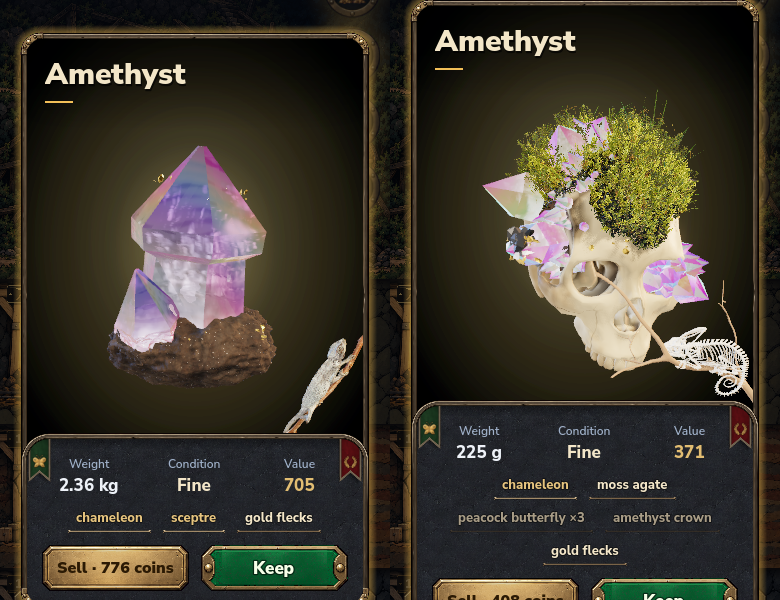
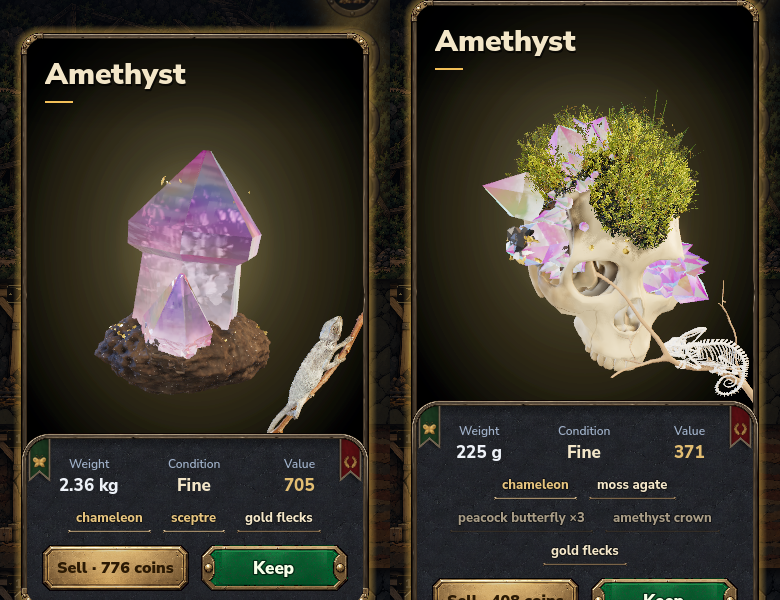
Хамелеон: обычный на 20% крупнее

Changed region(s): [[0.1231, 0.24, 0.4615, 0.72]]

diff --git a/CLAUDE.md b/CLAUDE.md
@@ -71,7 +71,7 @@
 - Руда и железо рудника — на разных цветах фишек (`AREAS[].ore.iron` ≠ `local`): иначе железа нет вовсе (Proval до 20.11).
 
 ## Что дальше
-- 25.11 (`fixes`), **хамелеон в углу карточки — первая проба, без цвета** (легенда «chameleon»; задумка пользователя: хамелеон на палочке в правом нижнем углу окна камня, затем синхронная смена цвета хамелеона, камня, инфо-блока и рамки). Сканы Sketchfab (CC BY, `assets/specimen/chameleon/CREDITS.md`): живой хамелеон RISD Nature Lab на ветке (ветка отделена по цвету текстуры — коричневая против серого тела) и скелет йеменского хамелеона yoniren2 со своей веткой (подставка выброшена); `prototype/tools/chameleon/cham_prep.py -- <Downloads> <godot/assets/specimen/chameleon>` → `cham_body/cham_branch/cham_skel/cham_skel_branch.obj`, `cham_d.png` (1024). `CardChameleon` (`specimen/card_chameleon.gd`, вешает `Reveal` по `fx == "chameleon"`): модель в мире студии камня (её свет), каждый кадр ставится в правый нижний угол окна (правый край вида, верх инфо-панели; `cam.project_position`), ветка лежит наискосок через угол (по эскизу пользователя): нижний конец на верху инфо-панели в 0,24 ширины окна от правого края, верхний — на правой раме в 0,34 ширины над панелью (`CHORD`), концы чуть уходят за край (`LEN_K` 1,18), животное головой вверх, боком к камере; скелет — как в первой пробе (по просьбе): ветка из угла вверх-влево, 0,78 ширины окна (`SKEL_LEN`), середина скелета чуть выше угла. На черепе — скелет (хамелеон добавлен в легенды черепов людей и зверей). Ключ `cham_flip` — ветка другим концом. Кадр — `art/chameleon_corner_try.png`. Не сделано: раскраска и смена цвета, анимация.
+- 25.11 (`fixes`), **хамелеон в углу карточки — первая проба, без цвета** (легенда «chameleon»; задумка пользователя: хамелеон на палочке в правом нижнем углу окна камня, затем синхронная смена цвета хамелеона, камня, инфо-блока и рамки). Сканы Sketchfab (CC BY, `assets/specimen/chameleon/CREDITS.md`): живой хамелеон RISD Nature Lab на ветке (ветка отделена по цвету текстуры — коричневая против серого тела) и скелет йеменского хамелеона yoniren2 со своей веткой (подставка выброшена); `prototype/tools/chameleon/cham_prep.py -- <Downloads> <godot/assets/specimen/chameleon>` → `cham_body/cham_branch/cham_skel/cham_skel_branch.obj`, `cham_d.png` (1024). `CardChameleon` (`specimen/card_chameleon.gd`, вешает `Reveal` по `fx == "chameleon"`): модель в мире студии камня (её свет), каждый кадр ставится в правый нижний угол окна (правый край вида, верх инфо-панели; `cam.project_position`), ветка лежит наискосок через угол (по эскизу пользователя): нижний конец на верху инфо-панели в 0,29 ширины окна от правого края, верхний — на правой раме в 0,41 ширины над панелью (`CHORD`, +20% по просьбе), концы чуть уходят за край (`LEN_K` 1,18), животное головой вверх, боком к камере; скелет — как в первой пробе (по просьбе): ветка из угла вверх-влево, 0,78 ширины окна (`SKEL_LEN`), середина скелета чуть выше угла. На черепе — скелет (хамелеон добавлен в легенды черепов людей и зверей). Ключ `cham_flip` — ветка другим концом. Кадр — `art/chameleon_corner_try.png`. Не сделано: раскраска и смена цвета, анимация.
 - 25.11 (`fixes`), **легендарный камень не зарастает** (скрин: легендарный «starry sky» флюорит — куча мха, травы и поганок, кристалл ржавый и утоплен): у находок с легендарным эффектом в стекле (`heart, chameleon, lightning, starry, opal, kintsugi, fluor`) — `SpecGenome`: из общего слоя убраны высокие и густые наросты (папоротник, цветы, солома, помпоны, грибы, иглы, корка), в `lost` — лимонит, мох, коралл (закрывали стекло); построитель: порода не наползает на одиночный кристалл (`_hug_rock`), корка только у самого подножия. Лишайник, пыль, бабочки остаются. Найденные легендарные меняют вид. До/после (флюорит со звёздным небом, мохом, хлоритом, лимонитом) — `art/legend_glass_clear_ba.png`.
 - 25.11 (`fixes`), **медь: зелень корки снова ярче** (по просьбе): основа корки светлее (`deep` 0,03–0,08 → 0,1–0,26 по зелёному), яркие зёрна малахита и вне пятен (×0,45), ржавые зоны мягче (0,6). До/после — `art/copper_v7_green_ba.png`.
 - 25.11 (`fixes`), **медь: тёмная пёстрая корка, потёртая медь** (моя оценка 6,5/10, пункты 1–2): корка — почти чёрно-зелёная основа, яркий малахит только пятнами (`patch`) зёрнами скана, бурые и ржавые зоны поверх (`rust`); медь в окнах — тонкие длинные царапины трёх направлений (растянутый шум, гаснет мельче пикселя), пятна потускнения (`blot`); ямки пробовал — квадратные точки, похожие на мусор, убраны; волнистые кольца по меди — `wave` кома 0,24 → 0,12. До/после вблизи — `art/copper_v6_ba.png`. Форма (угловатость, карманы) — не делалась.
